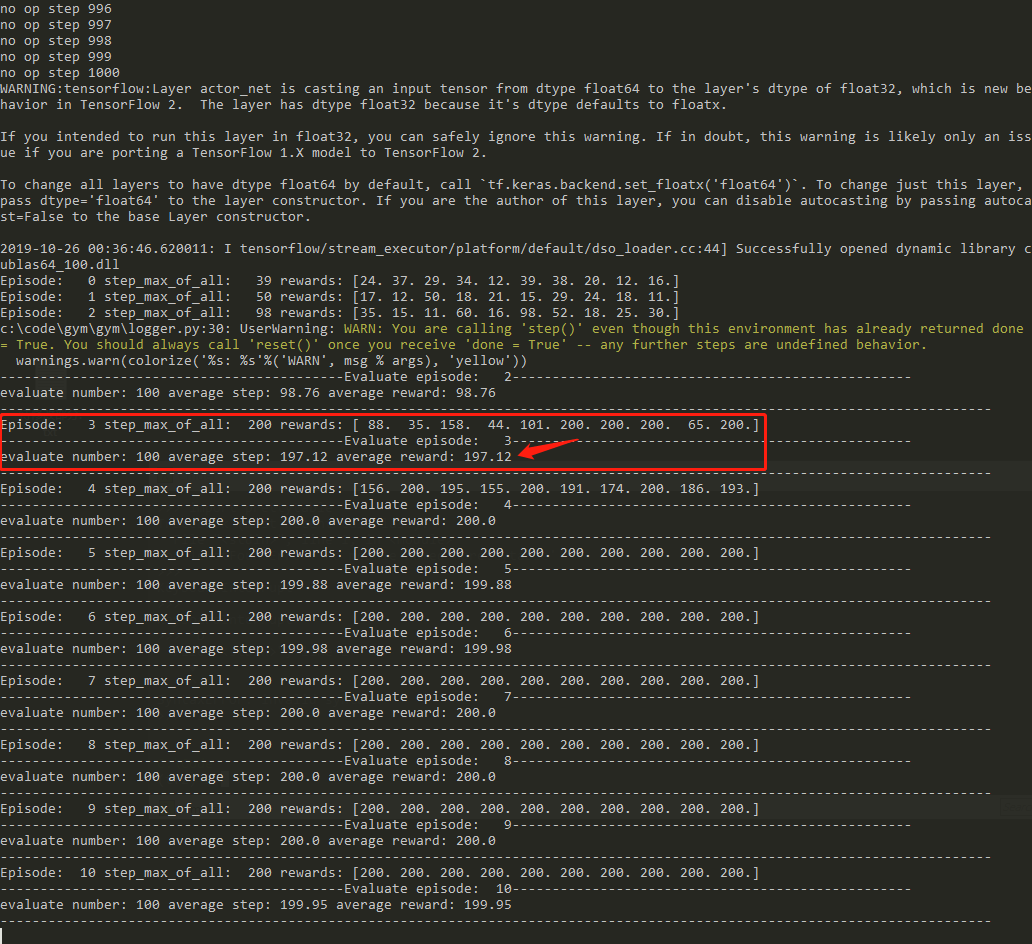
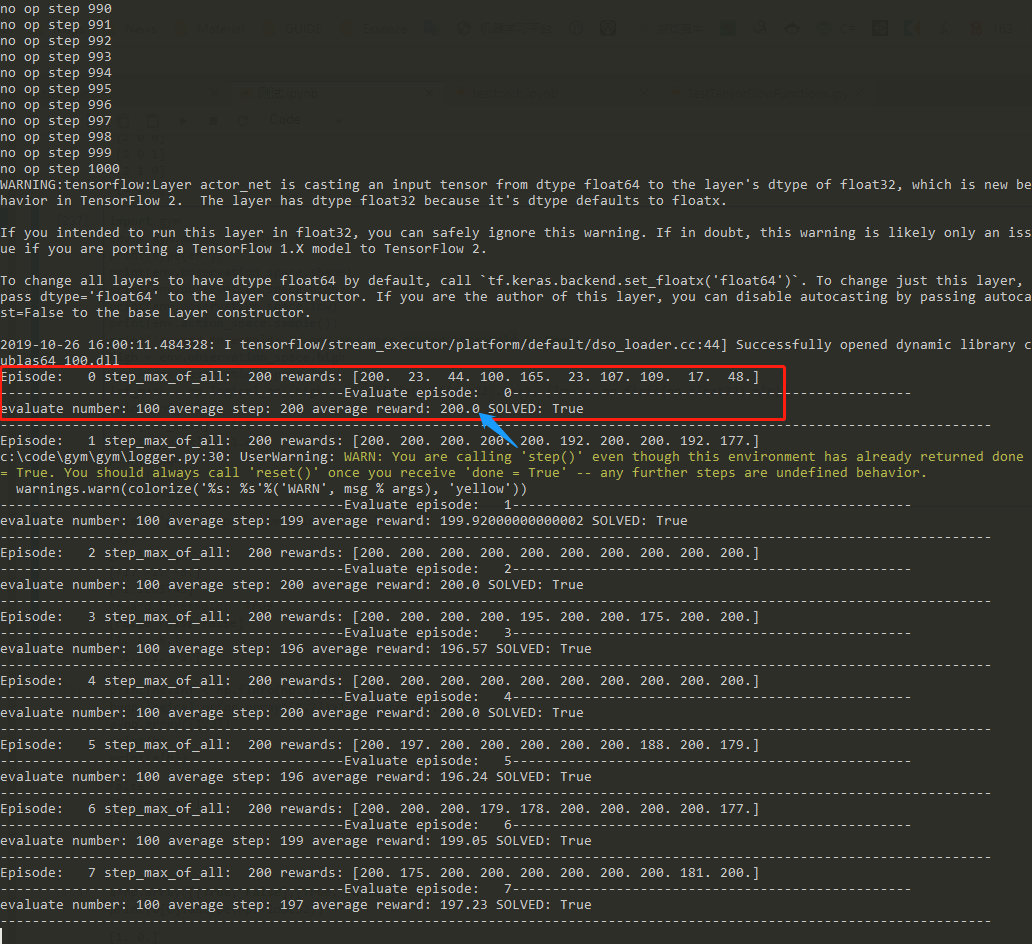
updated CartPole-v0 result

diff --git a/gym_loop.py b/gym_loop.py
@@ -118,11 +118,13 @@ class Loop(object):
             if episode % save_frequency == 0:
                 gym_model.save_checkpoint(episode)
 
-            if r.max() > 0 and eval_while_train:
-                ave_r, ave_step = Loop.evaluate(env, gym_model, action_type, max_step, max_eval_episode)
-                print(f'-------------------------------------------Evaluate episode: {episode:3d}--------------------------------------------------')
-                print(f'evaluate number: {max_eval_episode:3d} average step: {ave_step} average reward: {ave_r}')
-                print('----------------------------------------------------------------------------------------------------------------------------')
+            if eval_while_train and env.reward_threshold is not None:
+                if r.max() > env.reward_threshold:
+                    ave_r, ave_step = Loop.evaluate(env, gym_model, action_type, max_step, max_eval_episode)
+                    solved = True if ave_r > env.reward_threshold else False
+                    print(f'-------------------------------------------Evaluate episode: {episode:3d}--------------------------------------------------')
+                    print(f'evaluate number: {max_eval_episode:3d} average step: {ave_step} average reward: {ave_r} SOLVED: {solved}')
+                    print('----------------------------------------------------------------------------------------------------------------------------')
 
     @staticmethod
     def evaluate(env, gym_model, action_type, max_step, max_eval_episode):
@@ -151,7 +153,7 @@ class Loop(object):
             total_r += r
             total_steps += steps
         average_r = total_r.mean() / episodes
-        average_step = total_steps.mean() / episodes
+        average_step = int(total_steps.mean() / episodes)
         return average_r, average_step
 
     @staticmethod

diff --git a/gym_wrapper.py b/gym_wrapper.py
@@ -27,6 +27,7 @@ class gym_envs(object):
         self.envs = [gym.make(gym_env_name) for _ in range(self.n)]
         self.observation_space = self.envs[0].observation_space
         self.obs_type = 'visual' if len(self.observation_space.shape) == 3 else 'vector'
+        self.reward_threshold = self.envs[0].env.spec.reward_threshold
         if type(self.envs[0].action_space) == gym.spaces.box.Box:
             self.a_type = 'continuous'
         elif type(self.envs[0].action_space) == gym.spaces.tuple.Tuple:

diff --git a/gym_Leaderboard/CartPole-v0/README.md b/gym_Leaderboard/CartPole-v0/README.md
@@ -1,31 +1,27 @@
 # CartPole-v0
 
-- Convergence episode: 3
+- Convergence episode: 0
 - max step per episode: 200
-- algorithm: sac+gumbel[[code]( https://github.com/StepNeverStop/RLs/blob/master/Algorithms/tf2algos/sac.py )]
+- algorithm: td3+gumbel[[code]( https://github.com/StepNeverStop/RLs/blob/master/Algorithms/tf2algos/td3.py )]
 - Actor
 - - 64 -> 32 -> logits
-- Critic_Q
+- Critic
 - - 64 -> 64 -> 1
-- Critic_V
-- - 32 -> 32 -> 1
 - n_step: 4
 - step_before_train(random): 10000
 - agents in parrallel: 10
 
 Parameters:
 ```
-'alpha': 0.2,
-'auto_adaption': True,
 'gamma': 0.999,
 'ployak': 0.995,
 'lr': 5.0e-3,
-'discrete_tau': 1.0,
 'max_episode': 50000,
+'discrete_tau': 1.0, # discrete_tau越小，gumbel采样的越接近one_hot，但相应的梯度也越小
 'batch_size': 8192,
 'buffer_size': 200000,
 'use_priority': False,
-'n_step': True
+'n_step': True,
 ```
 
 Result:
